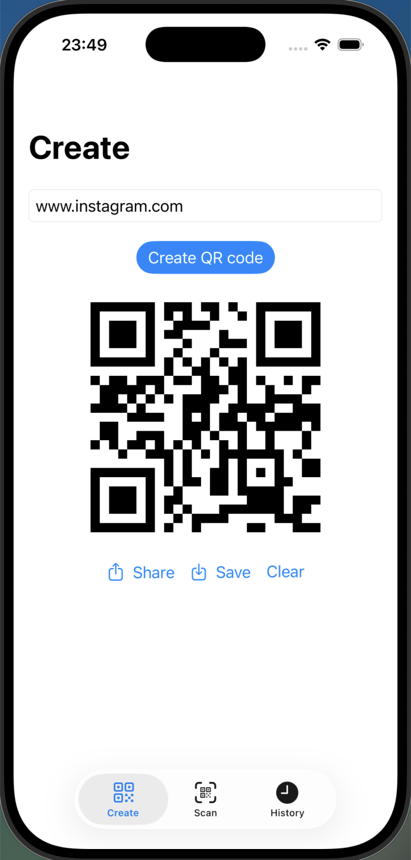
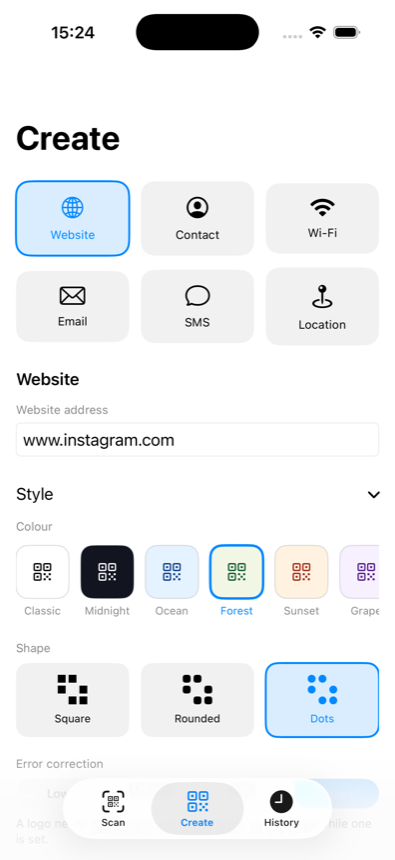
Update screenshots to the current app and lay them out in a grid

diff --git a/README.md b/README.md
@@ -6,13 +6,30 @@ Written in **pure SwiftUI** — no UIKit anywhere, not even a `UIViewRepresentab
 
 ## Screenshots
 
-<p align="center">
-  <img src="docs/screenshots/create.png" width="260" alt="Create tab: a link typed in with its QR code below, and Share / Save / Clear actions" />
-  <img src="docs/screenshots/scan.png" width="260" alt="Scan tab: camera area, torch button and Scan from photo" />
-  <img src="docs/screenshots/history.png" width="260" alt="History tab: a saved code with its timestamp and a favorite star" />
-</p>
-
-<p align="center"><sub><b>Create</b> · <b>Scan</b> · <b>History</b></sub></p>
+<div align="center">
+<table>
+  <tr>
+    <td align="center">
+      <img src="docs/screenshots/create.png" width="230" alt="Create tab: six type cards, a website field, and the style section with colour palettes and module shapes"><br>
+      <sub><b>Create</b> — pick a type, then style it</sub>
+    </td>
+    <td align="center">
+      <img src="docs/screenshots/code.png" width="230" alt="A finished QR code in the Coffee palette with dot modules, above Share, Save and Clear"><br>
+      <sub><b>Styled output</b> — share, save or clear</sub>
+    </td>
+  </tr>
+  <tr>
+    <td align="center">
+      <img src="docs/screenshots/scan.png" width="230" alt="Scan tab: camera area with a flash button and a scan from photo option"><br>
+      <sub><b>Scan</b> — codes and barcodes, flash, photos</sub>
+    </td>
+    <td align="center">
+      <img src="docs/screenshots/history.png" width="230" alt="History tab: search field, type filter, and a saved link entry"><br>
+      <sub><b>History</b> — searchable and filterable</sub>
+    </td>
+  </tr>
+</table>
+</div>
 
 The Scan shot is from the Simulator, which has no camera — on a device that grey area is the live preview.
 
